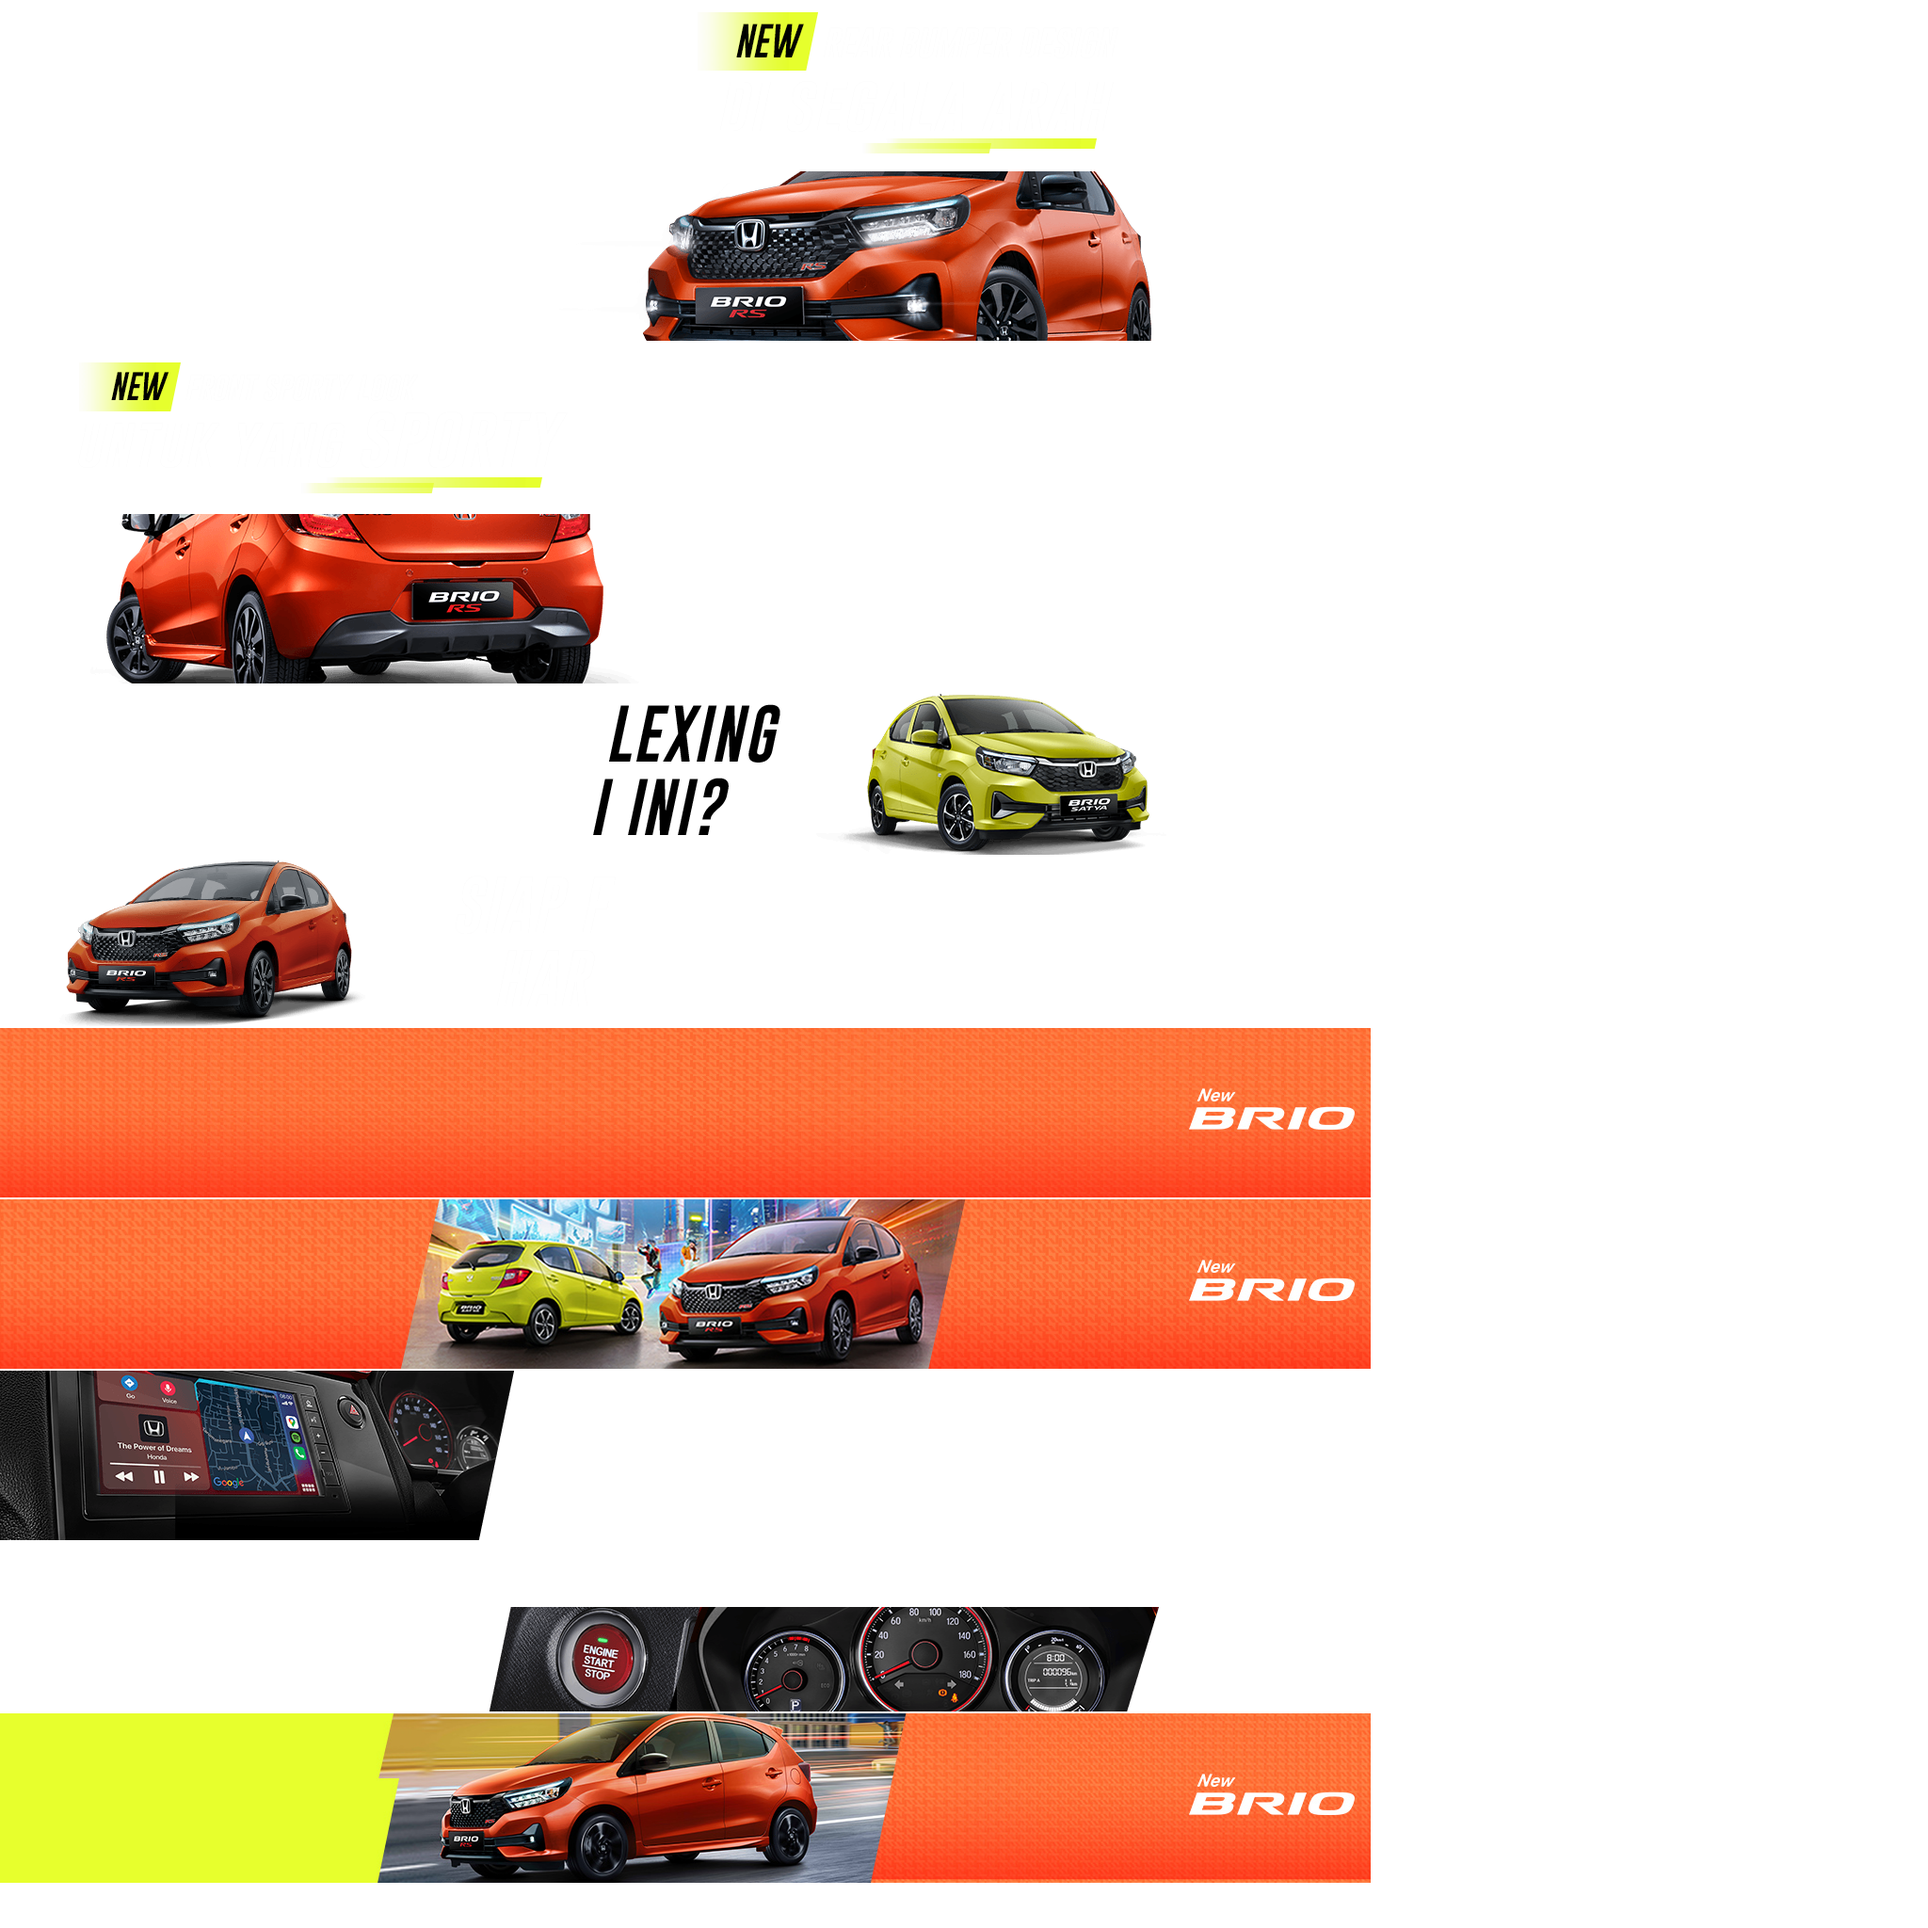
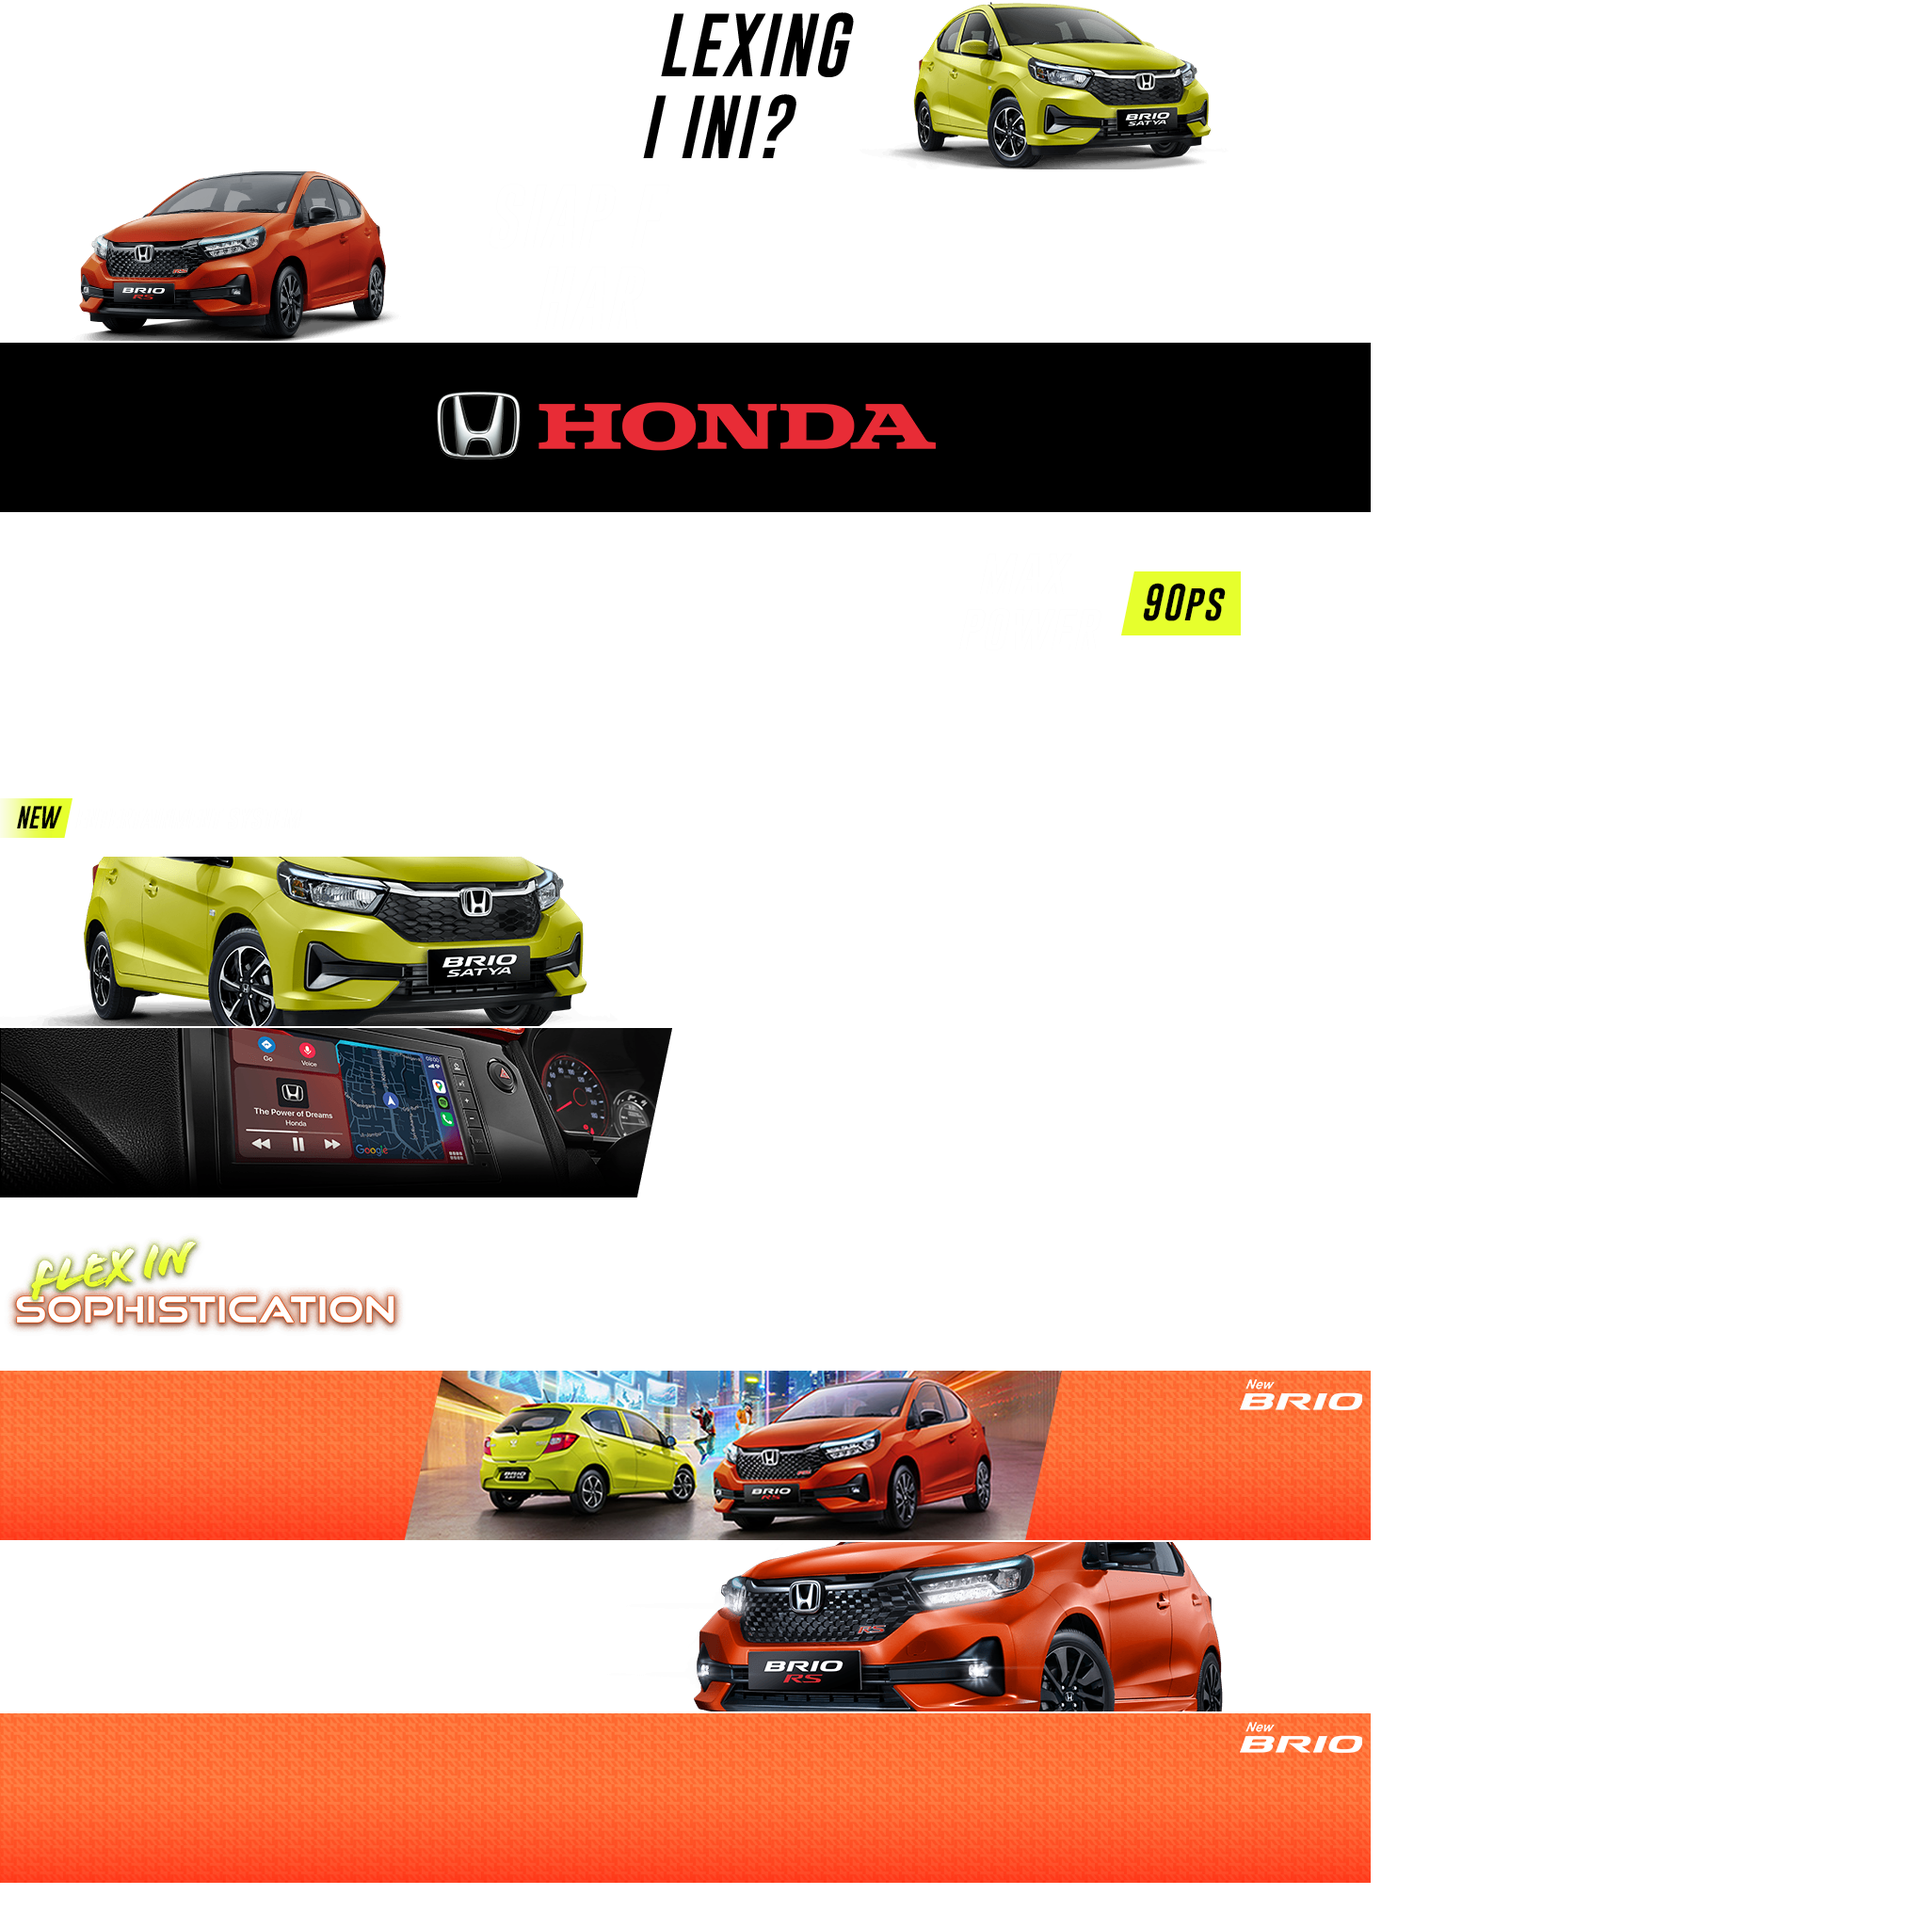
awd

diff --git a/idntimes/cpm-premium/honda/728x90/index.js b/idntimes/cpm-premium/honda/728x90/index.js
@@ -3,8 +3,9 @@
 var p; // shortcut to reference prototypes
 var lib={};var ss={};var img={};
 lib.ssMetadata = [
-		{name:"index_atlas_", frames: [[0,910,1456,180],[0,728,1456,180],[0,1092,1456,180],[0,182,1456,180],[0,364,1456,180],[0,546,1456,180],[0,0,1456,180],[0,1820,1456,180],[0,1456,1456,180],[0,1638,1456,180],[0,1274,1456,180]]},
-		{name:"index_atlas_2", frames: [[0,1914,728,90],[0,1822,728,90],[0,1730,728,90],[0,1638,728,90],[730,1730,728,90],[0,364,1456,180],[730,1638,728,90],[0,1092,1456,180],[0,182,1456,180],[0,728,1456,180],[730,1822,728,90],[0,1274,1456,180],[0,0,1456,180],[0,1456,1456,180],[0,546,1456,180],[0,910,1456,180]]}
+		{name:"index_atlas_", frames: [[0,182,1456,180],[0,0,1456,180],[0,1820,1456,180],[0,1638,1456,180],[0,910,1456,180],[0,546,1456,180],[0,1092,1456,180],[0,728,1456,180],[0,1456,1456,180],[0,1274,1456,180],[0,364,1456,180]]},
+		{name:"index_atlas_2", frames: [[0,1912,728,90],[0,1820,728,90],[730,1912,728,90],[0,910,1456,180],[0,364,1456,180],[0,546,1456,180],[0,0,1456,180],[0,182,1456,180],[0,1092,1456,180],[0,1456,1456,180],[0,1274,1456,180],[730,1820,728,90],[0,1638,1456,180],[0,728,1456,180]]},
+		{name:"index_atlas_3", frames: [[0,0,728,90],[0,92,728,90]]}
 ];
 
 
@@ -62,43 +63,43 @@ lib.ssMetadata = [
 
 
 (lib._2text = function() {
-	this.initialize(ss["index_atlas_"]);
-	this.gotoAndStop(4);
-}).prototype = p = new cjs.Sprite();
-
-
-
-(lib._3car = function() {
-	this.initialize(ss["index_atlas_"]);
-	this.gotoAndStop(5);
-}).prototype = p = new cjs.Sprite();
-
-
-
-(lib._3sd = function() {
 	this.initialize(ss["index_atlas_2"]);
 	this.gotoAndStop(3);
 }).prototype = p = new cjs.Sprite();
 
 
 
-(lib._3text = function() {
-	this.initialize(ss["index_atlas_"]);
-	this.gotoAndStop(6);
-}).prototype = p = new cjs.Sprite();
-
-
-
-(lib._4bg = function() {
+(lib._3car = function() {
 	this.initialize(ss["index_atlas_2"]);
 	this.gotoAndStop(4);
 }).prototype = p = new cjs.Sprite();
 
 
 
-(lib._4car = function() {
+(lib._3sd = function() {
+	this.initialize(ss["index_atlas_3"]);
+	this.gotoAndStop(0);
+}).prototype = p = new cjs.Sprite();
+
+
+
+(lib._3text = function() {
 	this.initialize(ss["index_atlas_2"]);
 	this.gotoAndStop(5);
+}).prototype = p = new cjs.Sprite();
+
+
+
+(lib._4bg = function() {
+	this.initialize(ss["index_atlas_3"]);
+	this.gotoAndStop(1);
+}).prototype = p = new cjs.Sprite();
+
+
+
+(lib._4car = function() {
+	this.initialize(ss["index_atlas_"]);
+	this.gotoAndStop(4);
 }).prototype = p = new cjs.Sprite();
 
 
@@ -118,50 +119,50 @@ lib.ssMetadata = [
 
 
 (lib._5bg = function() {
-	this.initialize(ss["index_atlas_"]);
-	this.gotoAndStop(7);
+	this.initialize(ss["index_atlas_2"]);
+	this.gotoAndStop(8);
 }).prototype = p = new cjs.Sprite();
 
 
 
 (lib._5text1 = function() {
 	this.initialize(ss["index_atlas_2"]);
-	this.gotoAndStop(8);
+	this.gotoAndStop(9);
 }).prototype = p = new cjs.Sprite();
 
 
 
 (lib._5text2 = function() {
-	this.initialize(ss["index_atlas_2"]);
-	this.gotoAndStop(9);
+	this.initialize(ss["index_atlas_"]);
+	this.gotoAndStop(5);
 }).prototype = p = new cjs.Sprite();
 
 
 
 (lib._6fitur1 = function() {
 	this.initialize(ss["index_atlas_"]);
-	this.gotoAndStop(8);
+	this.gotoAndStop(6);
 }).prototype = p = new cjs.Sprite();
 
 
 
 (lib._6fitur2 = function() {
-	this.initialize(ss["index_atlas_"]);
-	this.gotoAndStop(9);
-}).prototype = p = new cjs.Sprite();
-
-
-
-(lib._6sd = function() {
 	this.initialize(ss["index_atlas_2"]);
 	this.gotoAndStop(10);
 }).prototype = p = new cjs.Sprite();
 
 
 
-(lib._6text1 = function() {
+(lib._6sd = function() {
 	this.initialize(ss["index_atlas_2"]);
 	this.gotoAndStop(11);
+}).prototype = p = new cjs.Sprite();
+
+
+
+(lib._6text1 = function() {
+	this.initialize(ss["index_atlas_"]);
+	this.gotoAndStop(7);
 }).prototype = p = new cjs.Sprite();
 
 
@@ -175,7 +176,7 @@ lib.ssMetadata = [
 
 (lib._7bg = function() {
 	this.initialize(ss["index_atlas_"]);
-	this.gotoAndStop(10);
+	this.gotoAndStop(8);
 }).prototype = p = new cjs.Sprite();
 
 
@@ -188,15 +189,15 @@ lib.ssMetadata = [
 
 
 (lib._7text = function() {
-	this.initialize(ss["index_atlas_2"]);
-	this.gotoAndStop(14);
+	this.initialize(ss["index_atlas_"]);
+	this.gotoAndStop(9);
 }).prototype = p = new cjs.Sprite();
 
 
 
 (lib.end = function() {
-	this.initialize(ss["index_atlas_2"]);
-	this.gotoAndStop(15);
+	this.initialize(ss["index_atlas_"]);
+	this.gotoAndStop(10);
 }).prototype = p = new cjs.Sprite();
 
 
@@ -604,7 +605,7 @@ p.nominalBounds = new cjs.Rectangle(-160,-25,728,90);
 	this.timeline.addTween(cjs.Tween.get(this.instance).wait(1));
 
 }).prototype = p = new cjs.MovieClip();
-p.nominalBounds = new cjs.Rectangle(-160,-25,364,45);
+p.nominalBounds = new cjs.Rectangle(-160,-25,728,90);
 
 
 (lib.Tween27 = function(mode,startPosition,loop) {
@@ -618,7 +619,7 @@ p.nominalBounds = new cjs.Rectangle(-160,-25,364,45);
 	this.timeline.addTween(cjs.Tween.get(this.instance).wait(1));
 
 }).prototype = p = new cjs.MovieClip();
-p.nominalBounds = new cjs.Rectangle(-160,-25,364,45);
+p.nominalBounds = new cjs.Rectangle(-160,-25,728,90);
 
 
 (lib.Tween26 = function(mode,startPosition,loop) {
@@ -1263,6 +1264,7 @@ p.nominalBounds = new cjs.Rectangle(-160,-25,728,90);
 	this.instance = new lib.Tween41("synched",0);
 	this.instance.parent = this;
 	this.instance.setTransform(160,96.55);
+	this.instance.alpha = 0;
 	this.instance._off = true;
 
 	this.instance_1 = new lib.Tween42("synched",0);
@@ -1270,7 +1272,7 @@ p.nominalBounds = new cjs.Rectangle(-160,-25,728,90);
 	this.instance_1.setTransform(160,25);
 
 	this.timeline.addTween(cjs.Tween.get({}).to({state:[]}).to({state:[{t:this.instance}]},305).to({state:[{t:this.instance_1}]},10).wait(69));
-	this.timeline.addTween(cjs.Tween.get(this.instance).wait(305).to({_off:false},0).to({_off:true,y:25},10,cjs.Ease.quadOut).wait(69));
+	this.timeline.addTween(cjs.Tween.get(this.instance).wait(305).to({_off:false},0).to({_off:true,y:25,alpha:1},10,cjs.Ease.quadOut).wait(69));
 
 }).prototype = p = new cjs.MovieClip();
 
@@ -1728,9 +1730,9 @@ p.nominalBounds = new cjs.Rectangle(-160,-25,728,90);
 	// Layer_36 (mask)
 	var mask = new cjs.Shape();
 	mask._off = true;
-	var mask_graphics_251 = new cjs.Graphics().p("AWaG5IC0tQIYygiIAANyg");
+	var mask_graphics_251 = new cjs.Graphics().p("AYfG6IC1tRIYxghIAANyg");
 
-	this.timeline.addTween(cjs.Tween.get(mask).to({graphics:null,x:0,y:0}).wait(251).to({graphics:mask_graphics_251,x:319.9644,y:41.5113}).wait(236));
+	this.timeline.addTween(cjs.Tween.get(mask).to({graphics:null,x:0,y:0}).wait(251).to({graphics:mask_graphics_251,x:333.3394,y:44.1557}).wait(236));
 
 	// text2_obj_
 	this.text2 = new lib.Scene_1_text2();
@@ -1780,9 +1782,9 @@ p.nominalBounds = new cjs.Rectangle(-160,-25,728,90);
 	// Layer_35 (mask)
 	var mask_1 = new cjs.Shape();
 	mask_1._off = true;
-	var mask_1_graphics_194 = new cjs.Graphics().p("ArPHeIAAu7MBEHAAAIAAO7g");
+	var mask_1_graphics_194 = new cjs.Graphics().p("AqAHeIAAu7MBEHAAAIAAO7g");
 
-	this.timeline.addTween(cjs.Tween.get(mask_1).to({graphics:null,x:0,y:0}).wait(194).to({graphics:mask_1_graphics_194,x:364.0028,y:47.7819}).wait(293));
+	this.timeline.addTween(cjs.Tween.get(mask_1).to({graphics:null,x:0,y:0}).wait(194).to({graphics:mask_1_graphics_194,x:371.9278,y:42.2319}).wait(293));
 
 	// text_obj_
 	this.text_1 = new lib.Scene_1_text_1();
@@ -1962,9 +1964,9 @@ p.nominalBounds = new cjs.Rectangle(-160,-25,728,90);
 	// Layer_33 (mask)
 	var mask_3 = new cjs.Shape();
 	mask_3._off = true;
-	var mask_3_graphics_9 = new cjs.Graphics().p("ApuKlIEj1QMA/CAAAIAAVXg");
+	var mask_3_graphics_9 = new cjs.Graphics().p("AniKlIEk1QMA/CAAAIAAVXg");
 
-	this.timeline.addTween(cjs.Tween.get(mask_3).to({graphics:null,x:0,y:0}).wait(9).to({graphics:mask_3_graphics_9,x:370.3034,y:45.2618}).wait(478));
+	this.timeline.addTween(cjs.Tween.get(mask_3).to({graphics:null,x:0,y:0}).wait(9).to({graphics:mask_3_graphics_9,x:384.3784,y:43.6618}).wait(478));
 
 	// car_satya_obj_
 	this.car_satya = new lib.Scene_1_car_satya();
@@ -1990,7 +1992,7 @@ p.nominalBounds = new cjs.Rectangle(-160,-25,728,90);
 	mask_4._off = true;
 	var mask_4_graphics_9 = new cjs.Graphics().p("A8mJDIAAyFMA5NAAGIj3R/g");
 
-	this.timeline.addTween(cjs.Tween.get(mask_4).to({graphics:null,x:0,y:0}).wait(9).to({graphics:mask_4_graphics_9,x:154.1806,y:40.7204}).wait(478));
+	this.timeline.addTween(cjs.Tween.get(mask_4).to({graphics:null,x:0,y:0}).wait(9).to({graphics:mask_4_graphics_9,x:181.1806,y:40.7204}).wait(478));
 
 	// car_rs_obj_
 	this.car_rs = new lib.Scene_1_car_rs();
@@ -2049,8 +2051,9 @@ lib.properties = {
 	color: "#FFFFFF",
 	opacity: 1.00,
 	manifest: [
-		{src:"images/index_atlas_.png?1683343903204", id:"index_atlas_"},
-		{src:"images/index_atlas_2.png?1683343903204", id:"index_atlas_2"}
+		{src:"images/index_atlas_.png", id:"index_atlas_"},
+		{src:"images/index_atlas_2.png", id:"index_atlas_2"},
+		{src:"images/index_atlas_3.png", id:"index_atlas_3"}
 	],
 	preloads: []
 };

diff --git a/idntimes/cpm-premium/honda/728x90/index.html b/idntimes/cpm-premium/honda/728x90/index.html
@@ -14,7 +14,7 @@
 <title>index</title>
 <!-- write your code here -->
 <script src="https://code.createjs.com/createjs-2015.11.26.min.js"></script>
-<script src="index.js?1683343903307"></script>
+<script src="index.js"></script>
 <script>
 var canvas, stage, exportRoot, anim_container, dom_overlay_container, fnStartAnimation;
 function init() {
